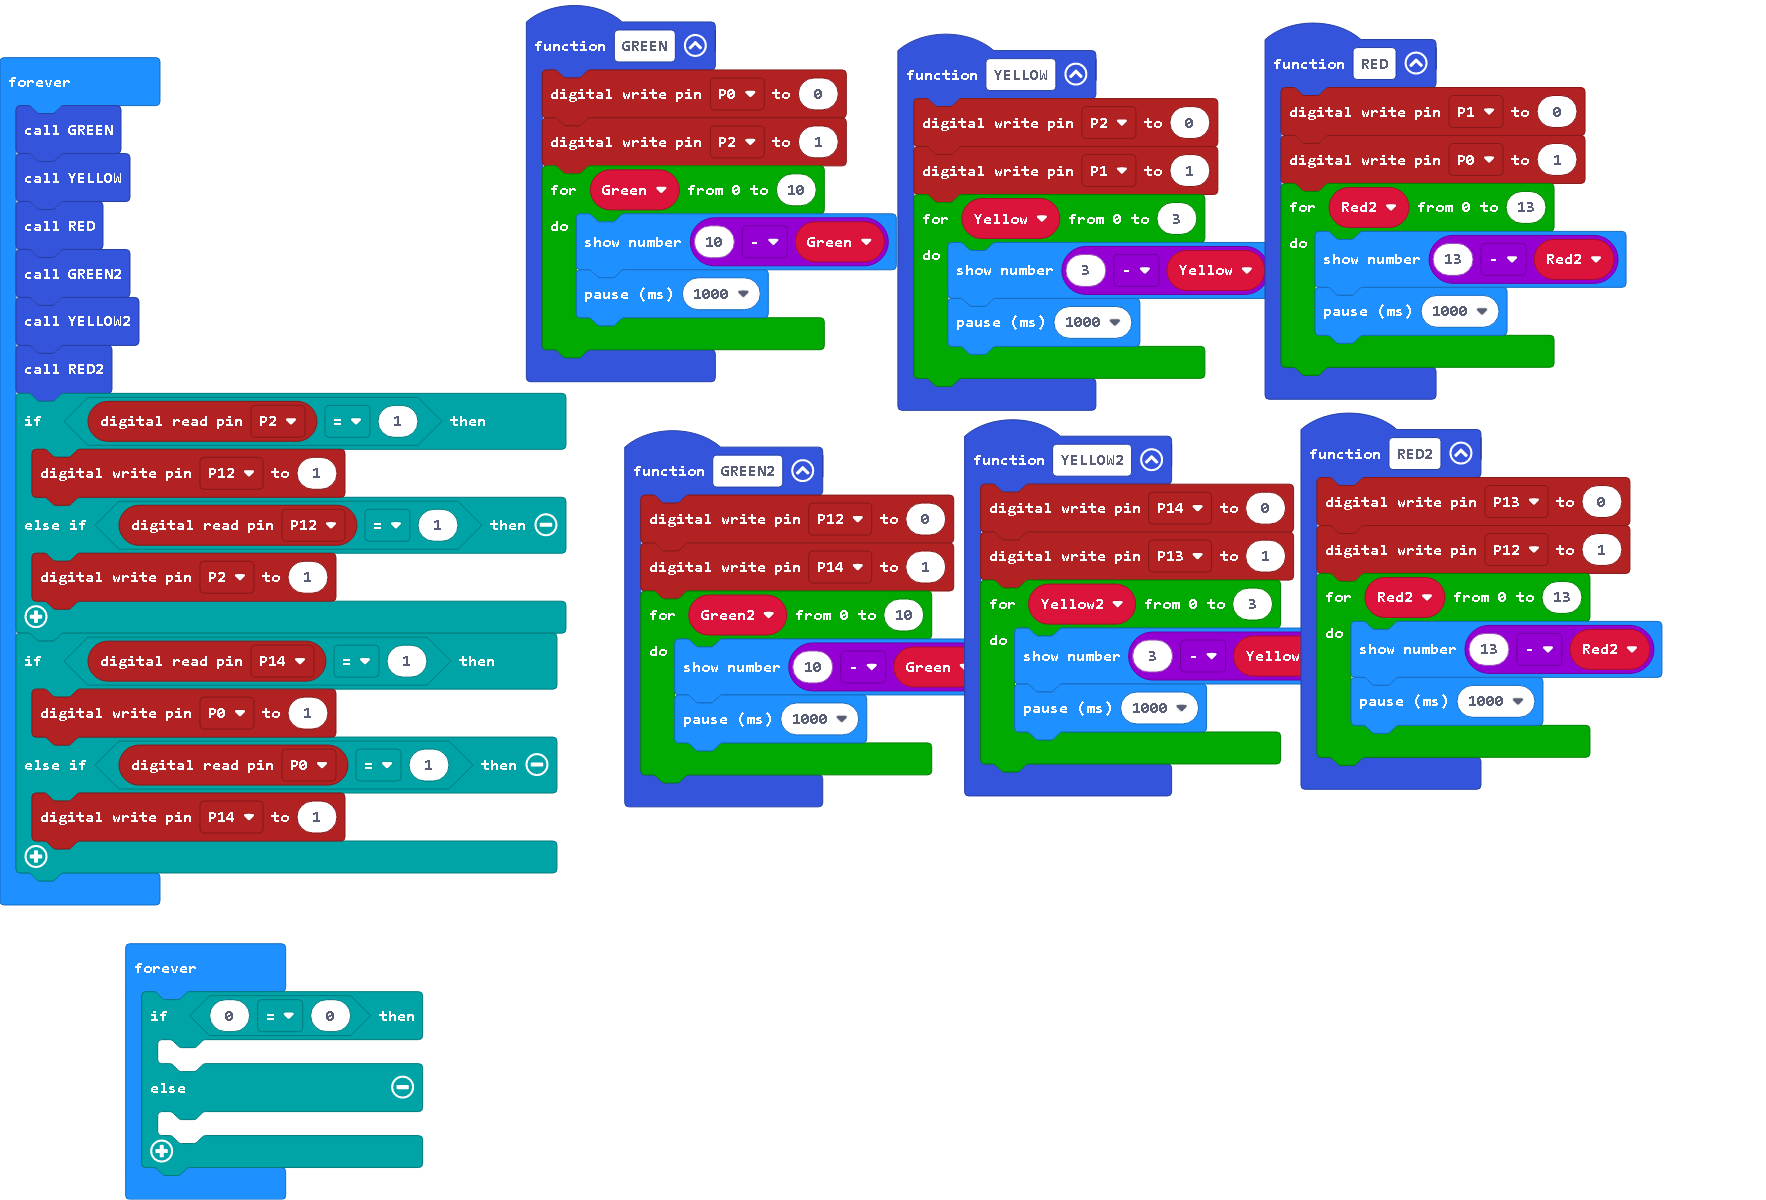
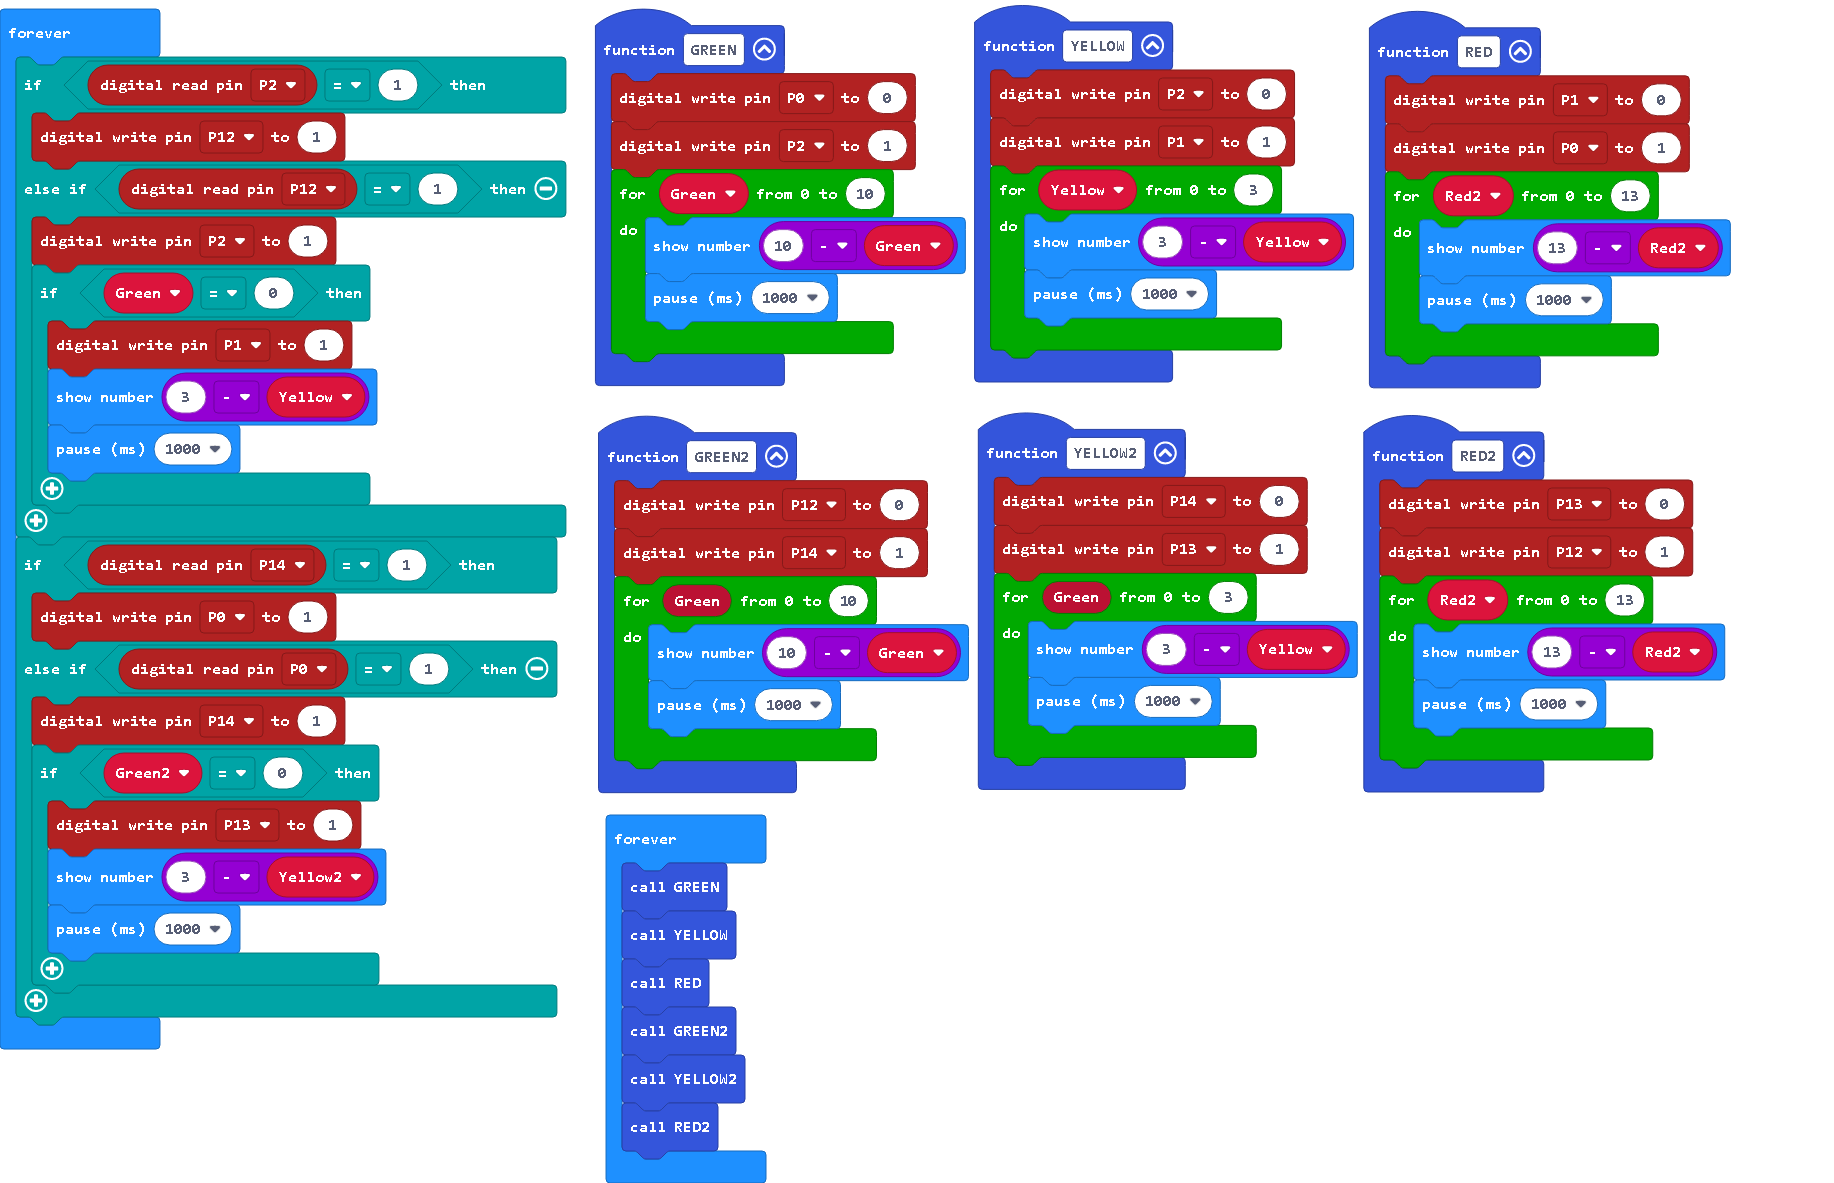
Update main.blocks, main.ts

diff --git a/main.ts b/main.ts
@@ -1,3 +1,4 @@
+let Yellow = 0
 function RED () {
     pins.digitalWritePin(DigitalPin.P1, 0)
     pins.digitalWritePin(DigitalPin.P0, 1)
@@ -17,8 +18,7 @@ function GREEN () {
 function GREEN2 () {
     pins.digitalWritePin(DigitalPin.P12, 0)
     pins.digitalWritePin(DigitalPin.P14, 1)
-    for (let Green2 = 0; Green2 <= 10; Green2++) {
-        let Green = 0
+    for (let Green = 0; Green <= 10; Green++) {
         basic.showNumber(10 - Green)
         basic.pause(1000)
     }
@@ -34,8 +34,7 @@ function RED2 () {
 function YELLOW2 () {
     pins.digitalWritePin(DigitalPin.P14, 0)
     pins.digitalWritePin(DigitalPin.P13, 1)
-    for (let Yellow2 = 0; Yellow2 <= 3; Yellow2++) {
-        let Yellow = 0
+    for (let Green = 0; Green <= 3; Green++) {
         basic.showNumber(3 - Yellow)
         basic.pause(1000)
     }
@@ -49,27 +48,35 @@ function YELLOW () {
     }
 }
 basic.forever(function () {
+    if (pins.digitalReadPin(DigitalPin.P2) == 1) {
+        pins.digitalWritePin(DigitalPin.P12, 1)
+    } else if (pins.digitalReadPin(DigitalPin.P12) == 1) {
+        let Green = 0
+        pins.digitalWritePin(DigitalPin.P2, 1)
+        if (Green == 0) {
+            pins.digitalWritePin(DigitalPin.P1, 1)
+            basic.showNumber(3 - Yellow)
+            basic.pause(1000)
+        }
+    }
+    if (pins.digitalReadPin(DigitalPin.P14) == 1) {
+        pins.digitalWritePin(DigitalPin.P0, 1)
+    } else if (pins.digitalReadPin(DigitalPin.P0) == 1) {
+        let Green2 = 0
+        pins.digitalWritePin(DigitalPin.P14, 1)
+        if (Green2 == 0) {
+            let Yellow2 = 0
+            pins.digitalWritePin(DigitalPin.P13, 1)
+            basic.showNumber(3 - Yellow2)
+            basic.pause(1000)
+        }
+    }
+})
+basic.forever(function () {
     GREEN()
     YELLOW()
     RED()
     GREEN2()
     YELLOW2()
     RED2()
-    if (pins.digitalReadPin(DigitalPin.P2) == 1) {
-        pins.digitalWritePin(DigitalPin.P12, 1)
-    } else if (pins.digitalReadPin(DigitalPin.P12) == 1) {
-        pins.digitalWritePin(DigitalPin.P2, 1)
-    }
-    if (pins.digitalReadPin(DigitalPin.P14) == 1) {
-        pins.digitalWritePin(DigitalPin.P0, 1)
-    } else if (pins.digitalReadPin(DigitalPin.P0) == 1) {
-        pins.digitalWritePin(DigitalPin.P14, 1)
-    }
-})
-basic.forever(function () {
-    if (0 == 0) {
-    	
-    } else {
-    	
-    }
 })
